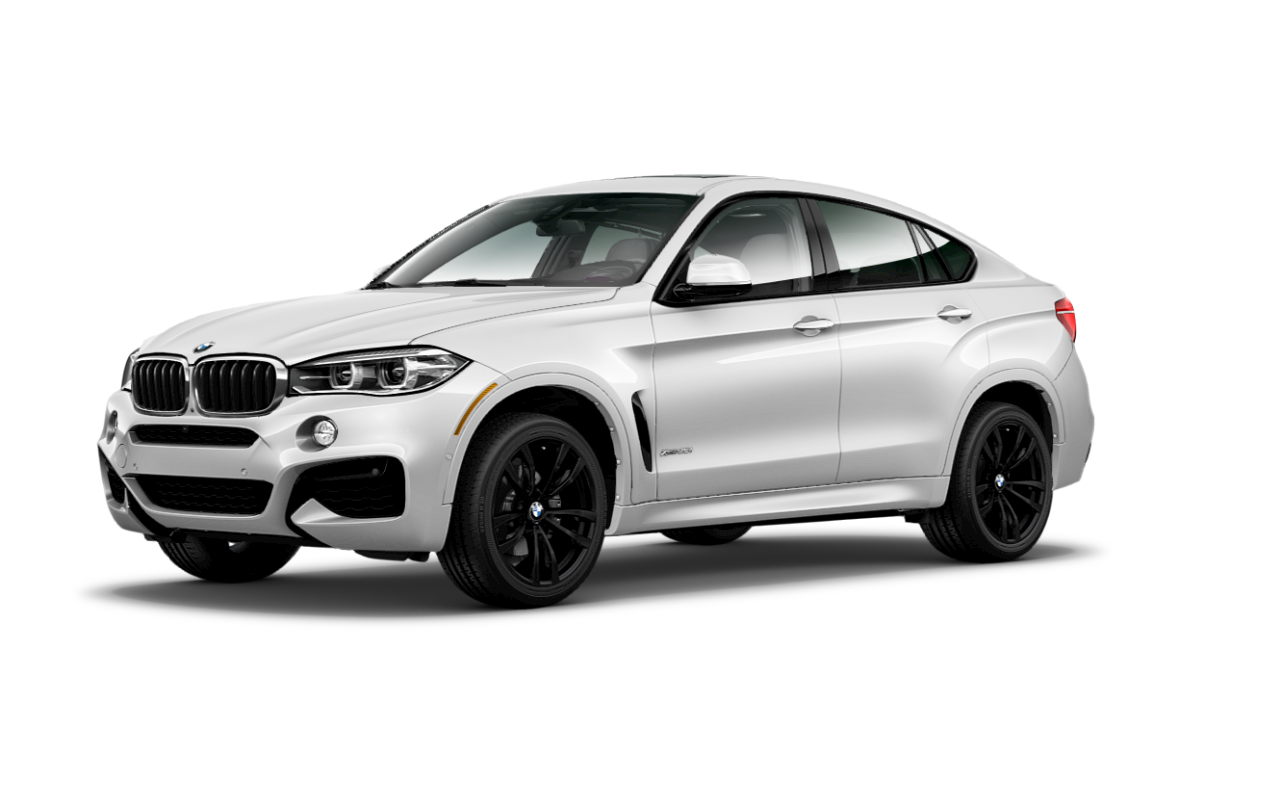
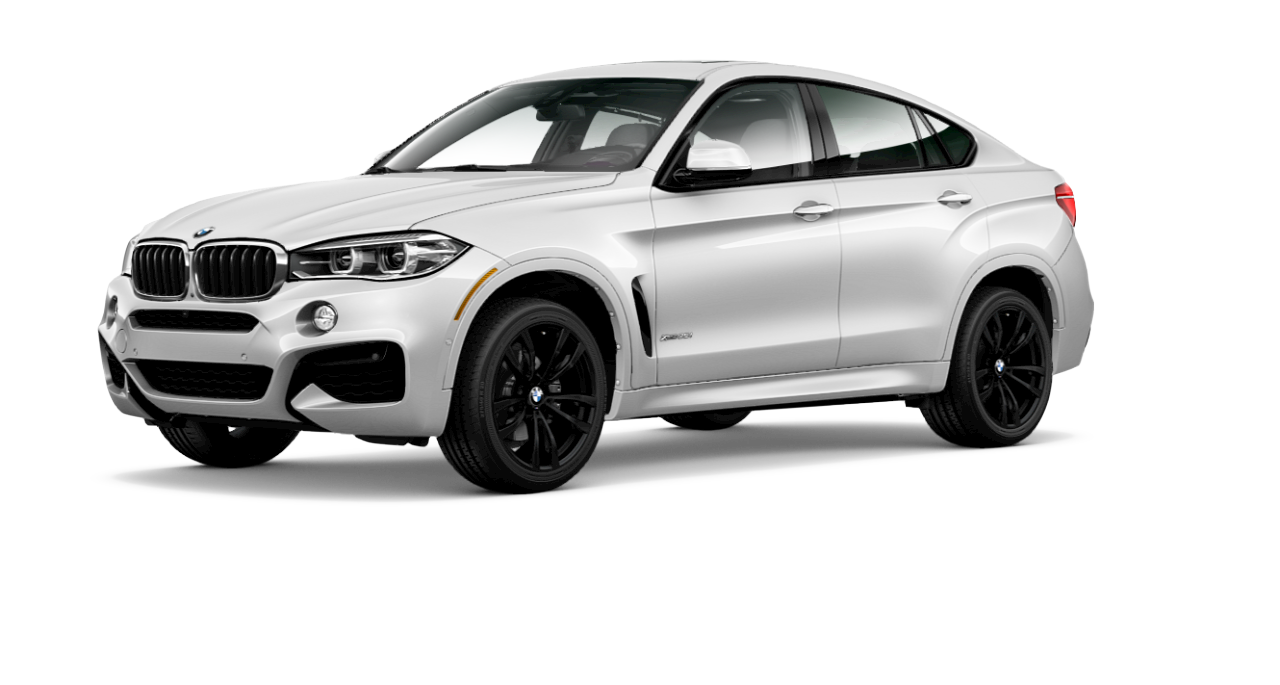
first commit

diff --git a/src/Shared/FakeData.jsx b/src/Shared/FakeData.jsx
@@ -1,0 +1,18 @@
+import { faker } from "@faker-js/faker";
+function createRandowCarList() {
+  return {
+    name: faker.vehicle.vehicle(),
+    fuelType: faker.vehicle.fuel(),
+    model: faker.vehicle.model(),
+    type: faker.vehicle.type(),
+    image: "",
+    miles: 1000,
+    gearType: "Automatic",
+    price: faker.finance.amount({ min: 4000, max: 20000 }),
+  };
+}
+
+const carList = faker.helpers.multiple(createRandowCarList, {
+  count: 7,
+});
+export default carList;

diff --git a/src/components/Hero.jsx b/src/components/Hero.jsx
@@ -34,7 +34,7 @@ function Hero() {
             <TypewriterEffectSmooth words={words} />
           </h2>
           <Search />
-          <img src="/car1.png" className="w-[950px]" />
+          <img src="/car1.png" className="w-[1050px] mt-10" />
         </div>
       </div>
     </>
